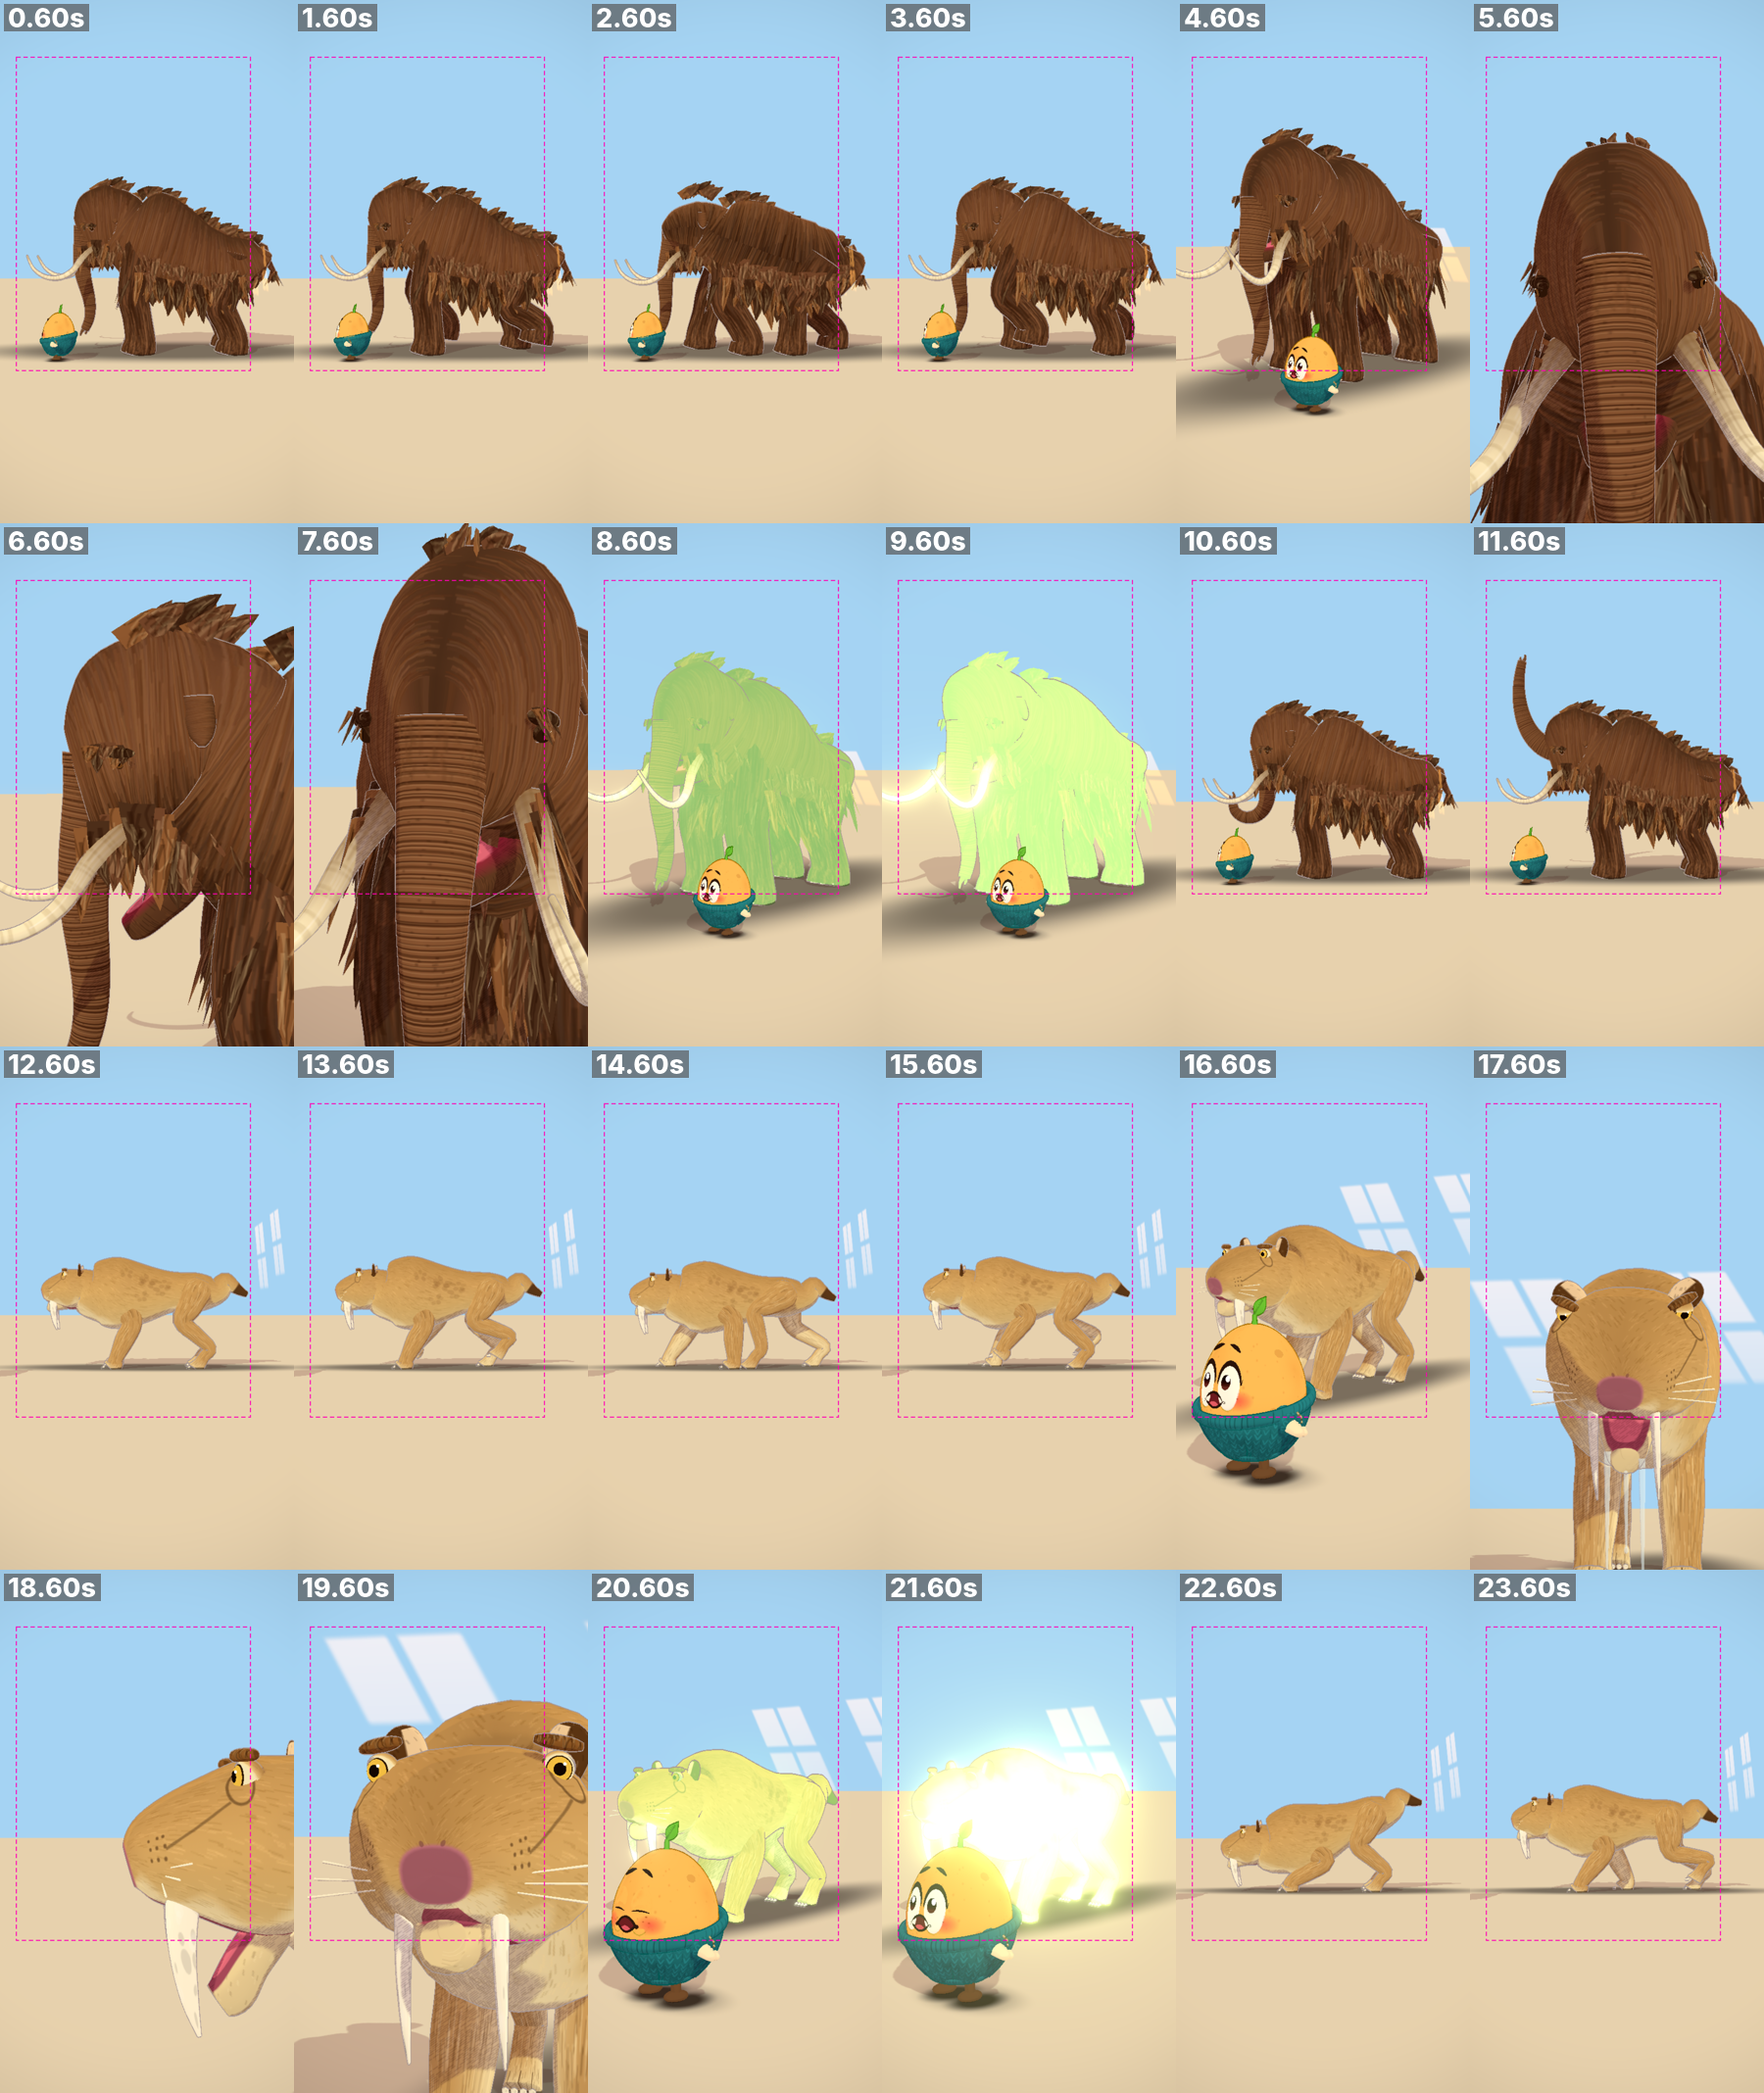
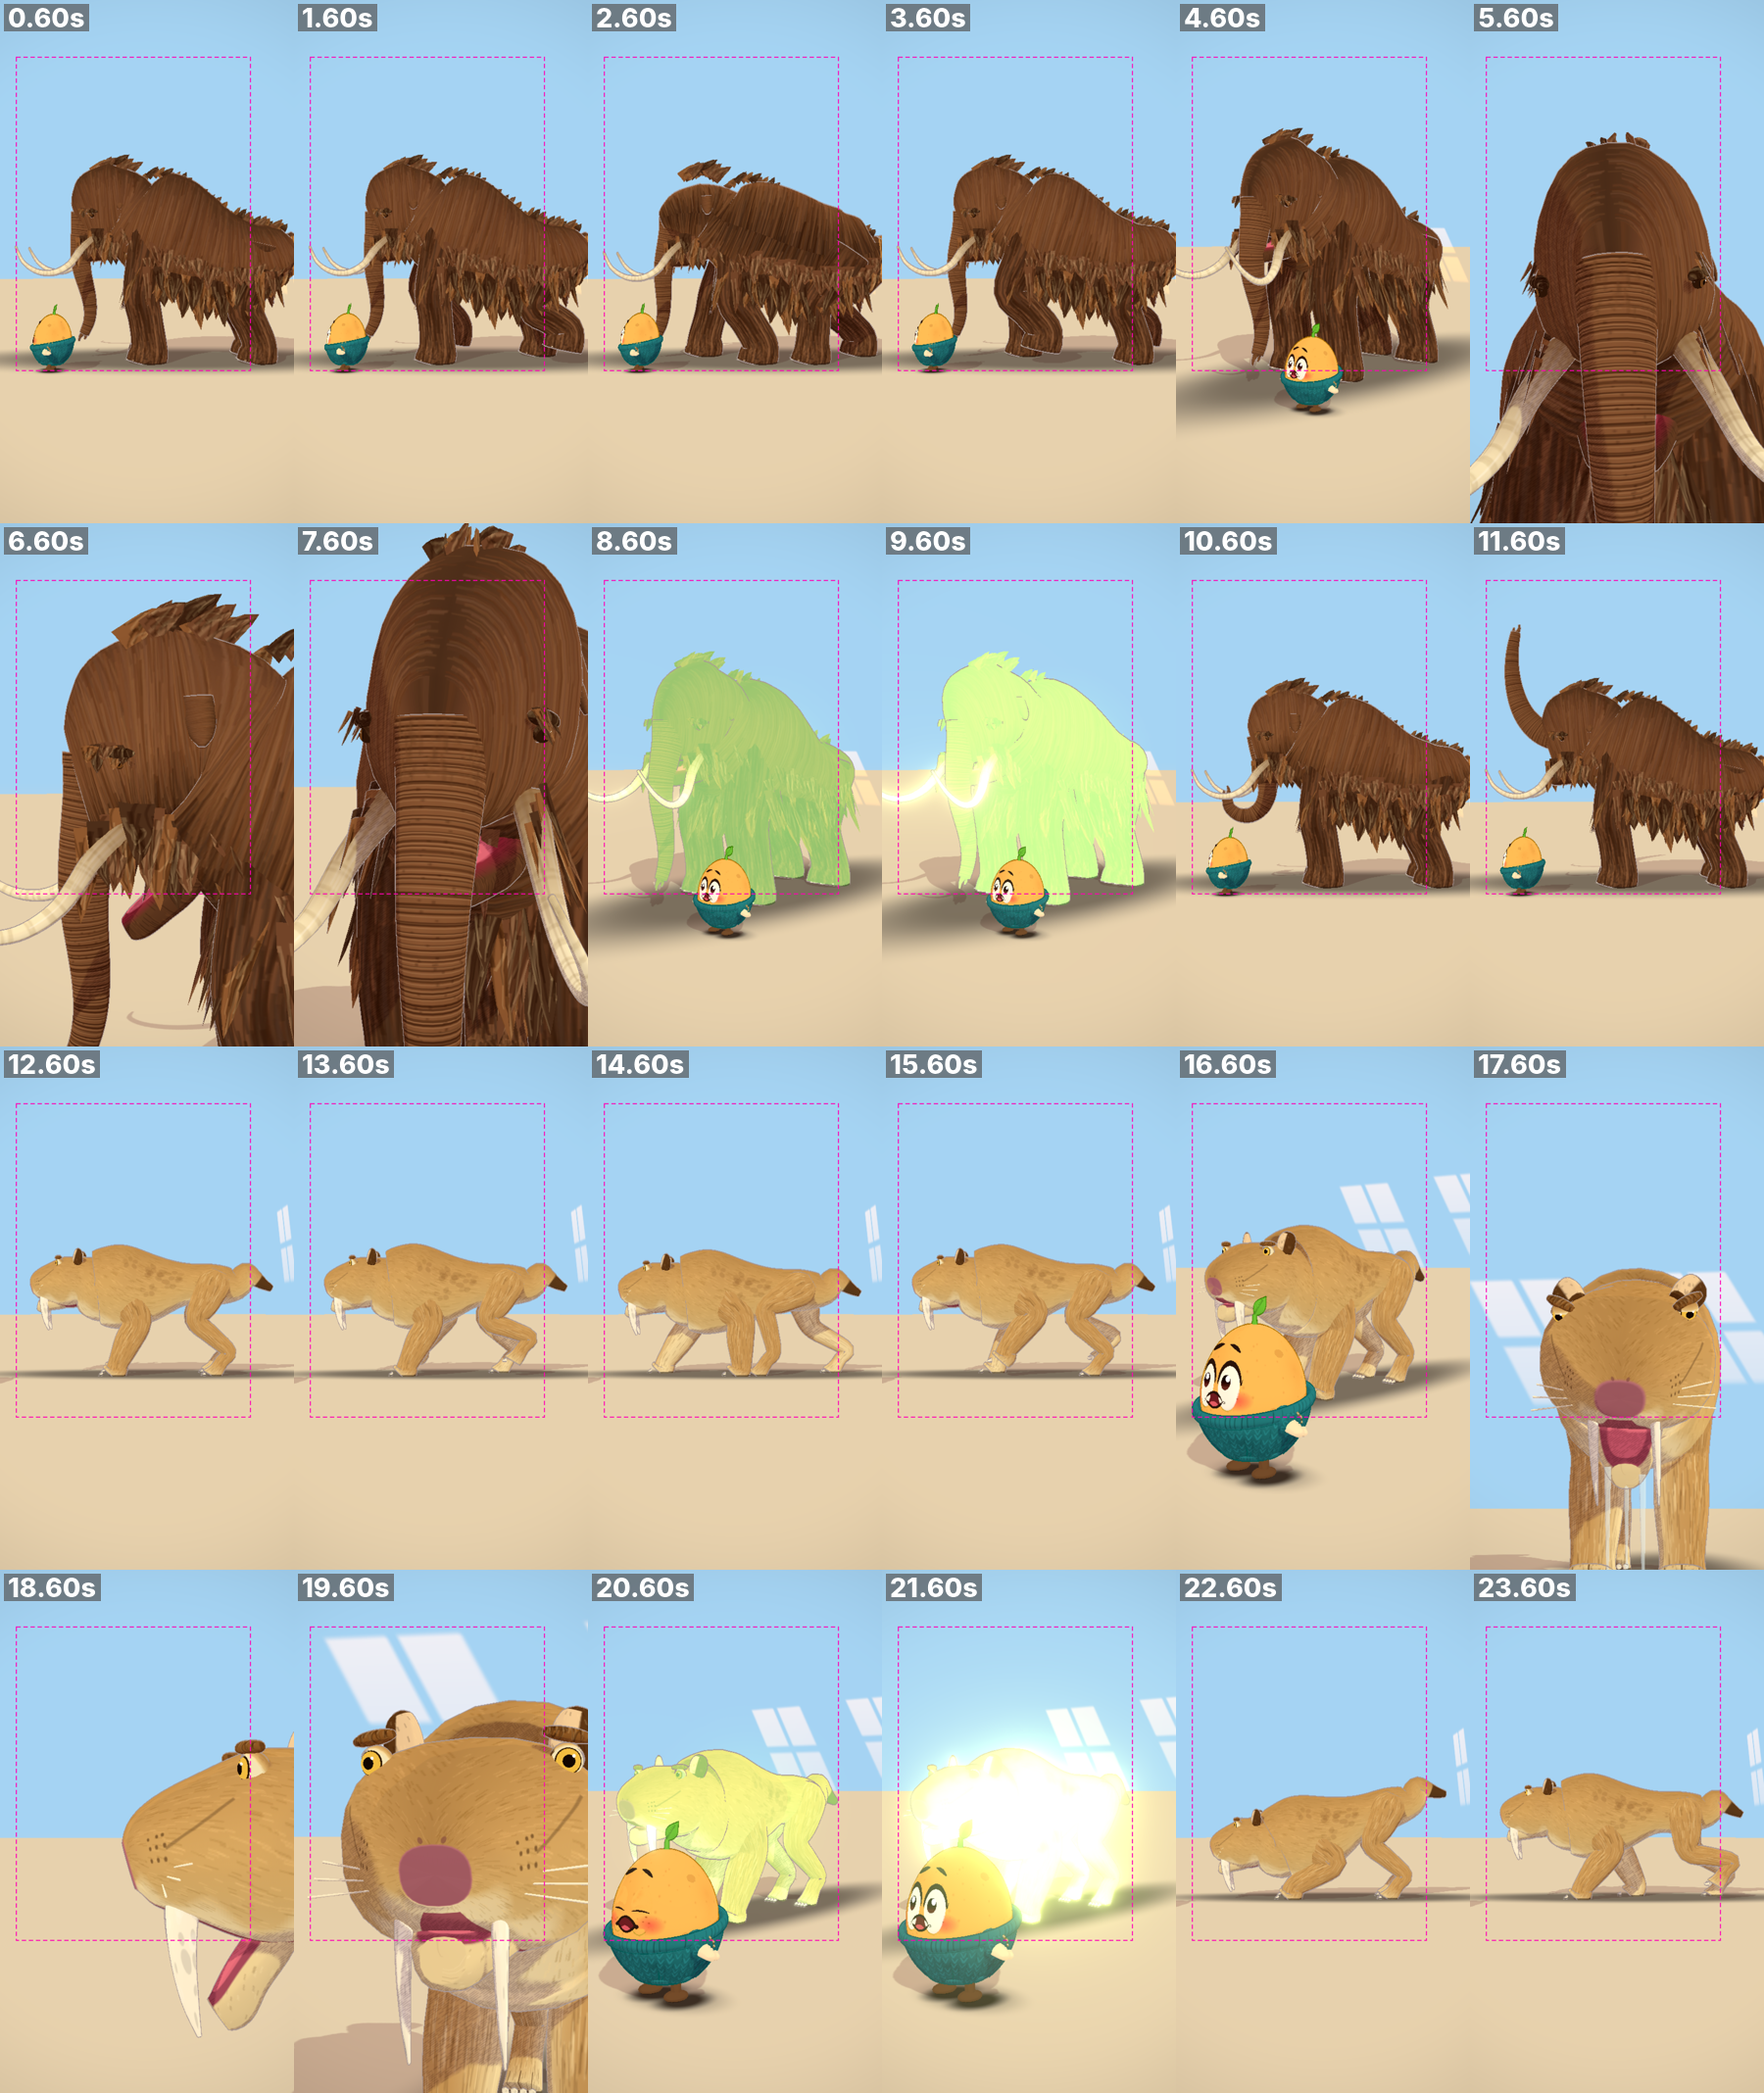
There's a catch 05 back to life: work in progress, sabre-tooth head round 2 (builder still on it, not checked yet)
Claude-Session: https://claude.ai/code/session_01KjyEUKzeKieJVQYjvU1PyA

diff --git a/engine/page/props-iceage.js b/engine/page/props-iceage.js
@@ -461,7 +461,7 @@ export const ICEAGE_KINDS = {
       }
     }
     for (let i = 0; i < 12; i++) lk(bodyLocks, [(rnd(i + 60) - 0.5) * 0.8, 1.6 - 0.03 * (i % 3), 0.84 + 0.02 * (i % 4) + (rnd(i + 61) - 0.5) * 0.1], (rnd(i + 62) - 0.5) * 0.9, -0.12 - rnd(i + 63) * 0.12, 0.5 + 0.4 * rnd(i + 64), 0.17 + 0.07 * rnd(i + 65));   // the throat and brisket mane
-    for (let i = 0; i < 30; i++) { const z = -1.4 + i * 0.077, r = bodyAt(z); lk(bodyLocks, [(rnd(i + 70) - 0.5) * 0.14, r.cy + r.up - 0.04, z], (rnd(i + 71) - 0.5) * 0.5, 2.0 + rnd(i + 72) * 0.2, 0.2 + 0.18 * rnd(i + 73), 0.12 + 0.04 * rnd(i + 74), 0.02, 1.4 + rnd(i + 75) * 0.4); }   // the shaggy back, laid backward
+    for (let i = 0; i < 30; i++) { const z = -1.4 + i * 0.077, r = bodyAt(z); lk(bodyLocks, [(rnd(i + 70) - 0.5) * 0.14, r.cy + r.up - 0.04, z], (rnd(i + 71) - 0.5) * 0.5, 2.3 + rnd(i + 72) * 0.2, 0.12 + 0.12 * rnd(i + 73), 0.11 + 0.04 * rnd(i + 74), 0.02, 1.4 + rnd(i + 75) * 0.4); }   // the shaggy back, laid backward
     for (const l of legs) for (let i = 0; i < 10; i++) {   // a ring of locks round the top of every leg hides the joint with the body
       const a = (i / 10) * TAU + rnd(i + l.x * 9 + l.d.z * 5) * 0.3, r = 0.3, bd = bodyAt(l.d.z);
       lk(bodyLocks, [l.x + Math.sin(a) * r, bd.cy - bd.dn * 0.92 + 0.12, l.d.z + Math.cos(a) * r], a, -0.2 - rnd(i + 80) * 0.12, 0.4 + 0.22 * rnd(i + 81), 0.16 + 0.07 * rnd(i + 82));
@@ -562,9 +562,9 @@ export const ICEAGE_KINDS = {
     // ---- the profile (side view), rump to the nose: [z, centre y, half width, up, down, n, share of the head's turn]; back = y + up, belly = y - dn
     // heavy high shoulders (back 1.10, chest 0.70 deep) sloping down to a lighter hip (0.95), a thick neck, a long flat forehead into a broad muzzle
     const NB = [
-      [-0.70, 0.77, 0.13, 0.13, 0.13, 2.2, 0], [-0.50, 0.75, 0.20, 0.19, 0.19, 2.2, 0], [-0.25, 0.755, 0.19, 0.20, 0.20, 2.2, 0], [0.05, 0.74, 0.25, 0.30, 0.30, 2.2, 0],
-      [0.28, 0.745, 0.30, 0.355, 0.355, 2.2, 0], [0.45, 0.75, 0.275, 0.325, 0.325, 2.2, 0], [0.55, 0.75, 0.245, 0.24, 0.25, 2.2, 0.45],
-      [0.64, 0.79, 0.215, 0.185, 0.195, 2.5, 1], [0.77, 0.775, 0.245, 0.195, 0.19, 2.5, 1], [0.90, 0.765, 0.18, 0.15, 0.14, 2.5, 1], [1.00, 0.75, 0.12, 0.10, 0.09, 2.5, 1], [1.04, 0.74, 0.055, 0.045, 0.05, 2.5, 1],
+      [-0.70, 0.77, 0.13, 0.13, 0.13, 2.2, 0], [-0.50, 0.76, 0.20, 0.17, 0.17, 2.2, 0], [-0.25, 0.765, 0.19, 0.18, 0.18, 2.2, 0], [0.05, 0.74, 0.25, 0.30, 0.30, 2.2, 0],
+      [0.28, 0.745, 0.30, 0.355, 0.355, 2.2, 0], [0.45, 0.75, 0.275, 0.325, 0.325, 2.2, 0], [0.50, 0.75, 0.25, 0.26, 0.27, 2.2, 0.45],
+      [0.62, 0.79, 0.235, 0.20, 0.21, 2.5, 1], [0.76, 0.775, 0.265, 0.21, 0.205, 2.5, 1], [0.90, 0.765, 0.195, 0.16, 0.15, 2.5, 1], [1.00, 0.75, 0.13, 0.11, 0.10, 2.5, 1], [1.04, 0.74, 0.06, 0.05, 0.055, 2.5, 1],
     ];
     const NN = NT + NB.length, uOf = (i) => i / (NN - 1);
     const coatTex = once("sabCoatR", () => cvs(1024, 512, (g, W, H) => {
@@ -592,7 +592,7 @@ export const ICEAGE_KINDS = {
         for (let k = 0; k < 9; k++) { g.fillStyle = "rgba(70,44,22,0.55)"; g.beginPath(); g.arc(W * uOf(NT + 9.5) + (k % 3) * 11 + rnd(k) * 4, (1 - (v < 0.5 ? 0.27 : 0.73)) * H + Math.floor(k / 3) * 12 - 10, 2.2, 0, TAU); g.fill(); }
       }
       g.fillStyle = "rgba(78,50,26,0.9)"; g.fillRect(0, 0, W * uOf(1.6), H);   // the tail tip is dark
-      const mu = W * uOf(NN - 1.25), no = g.createLinearGradient(mu, 0, W, 0); no.addColorStop(0, "rgba(185,115,122,0)"); no.addColorStop(0.5, "#b9737a"); no.addColorStop(1, "#a05f68"); g.fillStyle = no; g.fillRect(mu, 0, W - mu, H);   // the nose pad
+      const mu = W * uOf(NN - 1.1), no = g.createLinearGradient(mu, 0, W, 0); no.addColorStop(0, "rgba(185,115,122,0)"); no.addColorStop(0.5, "#b9737a"); no.addColorStop(1, "#a05f68"); g.fillStyle = no; g.fillRect(mu, 0, W - mu, H);   // the nose pad
       g.fillStyle = "rgba(120,70,70,0.55)"; for (const k of [-1, 1]) { g.beginPath(); g.ellipse(W * 0.985, H * (0.5 + k * 0.035), 7, 4, 0, 0, TAU); g.fill(); }   // nostrils
       // mouth roof: the underside of the muzzle
       g.fillStyle = "rgba(160,80,92,0.95)"; g.fillRect(W * uOf(NN - 4.6), 0, W * (uOf(NN - 1.5) - uOf(NN - 4.6)), H * 0.045); g.fillRect(W * uOf(NN - 4.6), H * 0.955, W * (uOf(NN - 1.5) - uOf(NN - 4.6)), H * 0.045);
@@ -628,7 +628,7 @@ export const ICEAGE_KINDS = {
 
     // ---- skin: tail (a 0.25 m bobtail), body, neck and skull, ONE loft
     const mkSec = (c, w, up, dn, n = 2.2) => ({ c, w, up, dn, n });
-    const PV = [0, 0.75, -0.5], HP = [0, 0.80, 0.56];   // the body pitches about the hips; the head turns about the atlas
+    const PV = [0, 0.75, -0.5], HP = [0, 0.80, 0.52];   // the body pitches about the hips; the head turns about the atlas
     const rel = (p) => [p[0] - HP[0], p[1] - HP[1], p[2] - HP[2]];
     const bodyRest = [...[[0, 0.78, -1.02], [0, 0.78, -0.95], [0, 0.82, -0.88], [0, 0.86, -0.78]].map((c, i) => mkSec(c, 0.025 + 0.02 * i, 0.025 + 0.02 * i, 0.025 + 0.02 * i)), ...NB.map((r) => mkSec([0, r[1], r[0]], r[2], r[3], r[4], r[5]))];
     const bodyGeo = makeLoft(bodyRest, { sub: 5, radial: 26 }); mesh(bodyGeo, coat, root);
@@ -665,8 +665,8 @@ export const ICEAGE_KINDS = {
       mesh(makeLoft(pts.map((p, i) => mkSec(rel([s * p[0], p[1], p[2]]), wd[i], zz[i], zz[i], 2.2)), { sub: 4, radial: 12, ref: [0, 0, 1] }), fang, headG);
     }
     // lower jaw: short, with a chin flange; hinged under the skull; its top is the inside of the mouth
-    const J = [0, 0.69, 0.72], jawG = new THREE.Group(); jawG.position.set(...rel(J)); headG.add(jawG);
-    const jr = [[0.70, 0.675, 0.09, 0.05, 0.045], [0.78, 0.645, 0.095, 0.05, 0.05], [0.88, 0.635, 0.08, 0.045, 0.055], [0.95, 0.625, 0.06, 0.04, 0.065], [0.985, 0.63, 0.04, 0.03, 0.05]];
+    const J = [0, 0.66, 0.72], jawG = new THREE.Group(); jawG.position.set(...rel(J)); headG.add(jawG);
+    const jr = [[0.70, 0.645, 0.10, 0.05, 0.045], [0.78, 0.615, 0.105, 0.05, 0.05], [0.88, 0.605, 0.09, 0.045, 0.055], [0.95, 0.595, 0.065, 0.04, 0.065], [0.985, 0.60, 0.04, 0.03, 0.05]];
     mesh(makeLoft(jr.map(([z, y, w, u, dn]) => mkSec([0, y - J[1], z - J[2]], w, u, dn, 2.4)), { sub: 4, radial: 16 }), jawM, jawG);
     const lickG = new THREE.Group(); lickG.position.set(0, 0.04, 0.26); jawG.add(lickG);
     mesh(makeLoft([[0, 0, 0, 0.03, 0.006], [0, 0, 0.06, 0.036, 0.008], [0, 0, 0.12, 0.03, 0.006], [0, 0, 0.16, 0.012, 0.003]].map(([x, y, z, w, u]) => mkSec([x, y, z], w, u, u, 2.2)), { sub: 3, radial: 12 }), tongueM, lickG);
@@ -678,9 +678,9 @@ export const ICEAGE_KINDS = {
     }
     // ears: small, round, set low on the sides of the skull (a flat rounded loft; dark back, cream inside)
     const earGeo = makeLoft([[0, -0.02, 0.045, 0.04, 0.04], [0, 0.03, 0.058, 0.032, 0.032], [0, 0.075, 0.056, 0.024, 0.024], [0, 0.108, 0.04, 0.016, 0.016], [0, 0.122, 0.014, 0.006, 0.006]].map(([x, y, w, u, dn]) => mkSec([x, y, 0], w, u, dn, 2.4)), { sub: 3, radial: 14, ref: [0, 0, 1] });
-    const ears = [-1, 1].map((s) => { const g = new THREE.Group(); g.position.set(...rel([s * 0.155, 0.925, 0.66])); g.scale.setScalar(0.8); g.rotation.z = -s * 0.22; headG.add(g); mesh(earGeo, s > 0 ? earML : earMR, g, 0, 0, 0); return { g, s }; });
+    const ears = [-1, 1].map((s) => { const g = new THREE.Group(); g.position.set(...rel([s * 0.17, 0.945, 0.64])); g.scale.setScalar(0.9); g.rotation.set(0, s * 0.6, -s * 0.22); headG.add(g); mesh(earGeo, s > 0 ? earML : earMR, g, 0, 0, 0); return { g, s }; });
     // eyes: small (r 0.03), pale amber, round pupil, dark rim, forward-facing
-    const face = realEyes(S, headG, { x: 0.17, y: 0.925 - HP[1], z: 0.80 - HP[2], R: 0.03, spread: 0.35, tilt: 0.05, sclera: "#e8dcb8", rim: "#2a1a0a", iris: "#e8b84a", irisTh: 0.86, pupilTh: 0.4, lidM: coat, browGeo: browLoft([[-0.045, 0.01, 0.008], [-0.02, 0.022, 0.014], [0.02, 0.022, 0.014], [0.045, 0.01, 0.008]]), browM: brownM, browUp: 1.35, lashes: 0 });
+    const face = realEyes(S, headG, { x: 0.185, y: 0.94 - HP[1], z: 0.79 - HP[2], R: 0.03, spread: 0.35, tilt: 0.05, sclera: "#e8dcb8", rim: "#2a1a0a", iris: "#e8b84a", irisTh: 0.86, pupilTh: 0.4, lidM: coat, browGeo: browLoft([[-0.045, 0.01, 0.008], [-0.02, 0.022, 0.014], [0.02, 0.022, 0.014], [0.045, 0.01, 0.008]]), browM: brownM, browUp: 1.35, lashes: 0 });
     const haloS = halo(P.whole, 2.4, 0, 0.7, 0);
     const qHead = new THREE.Quaternion(), qI = new THREE.Quaternion(), qP = new THREE.Quaternion(), vv = new THREE.Vector3(), hv = new THREE.Vector3(...HP);
     const TLR = [-0.5, -0.1, 0.1], TLU = [0.5, 0.55, 0.6], TLT = [-1.3, -0.4, -0.2];
